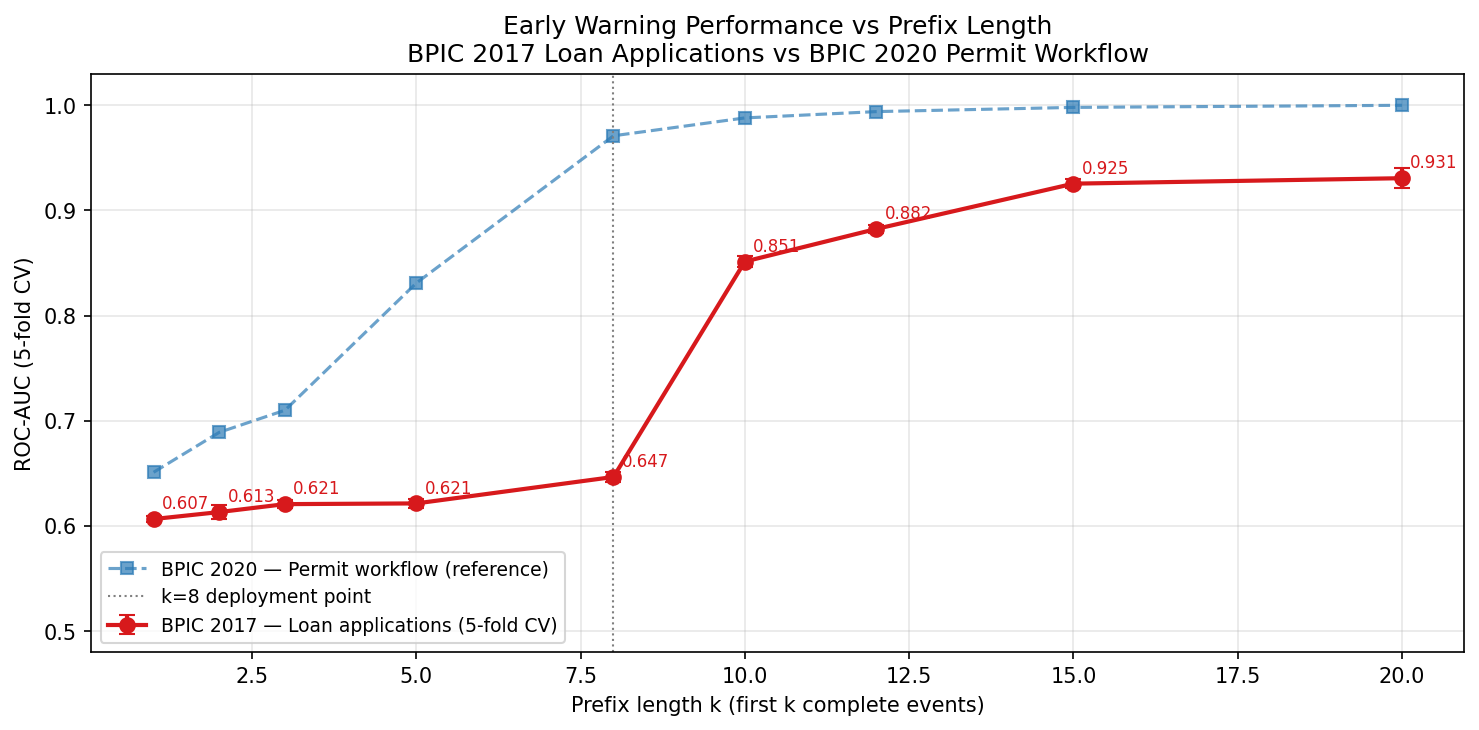
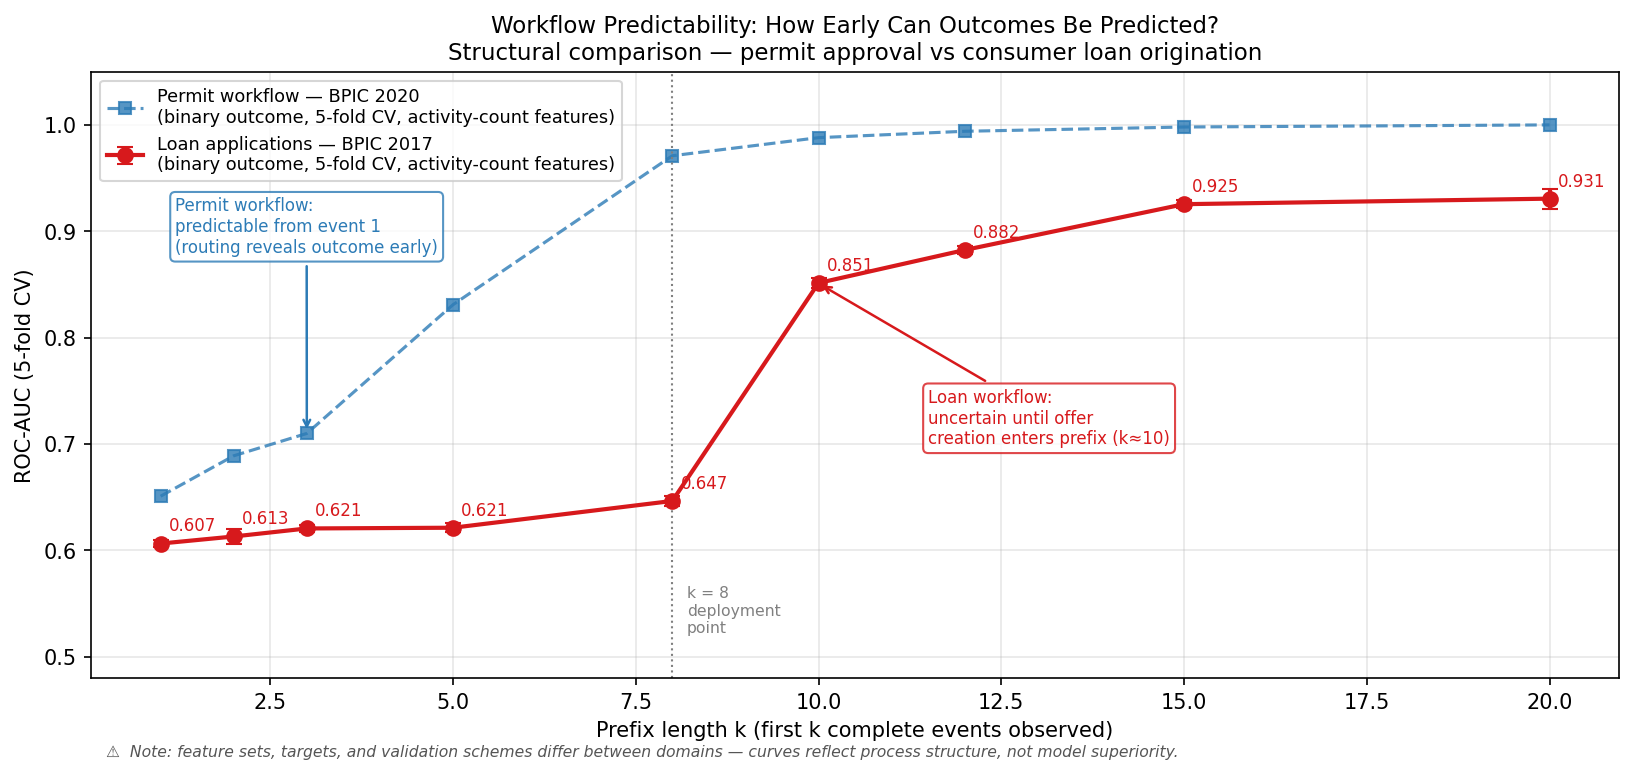
Reframe cross-domain chart as process structure, not performance comparison
Chart title changed to "Workflow Predictability: How Early Can Outcomes
Be Predicted?" — structural comparison, not a head-to-head benchmark.
Annotated callouts explain *why* the curves diverge (routing signals
present from event 1 in permits; loan outcome uncertain until offer
creation at k≈10). Footnote on chart and in all captions states that
feature sets, targets, and validation schemes differ between domains.

Notebook section 8 updated with explicit framing note. README results
table and figure caption updated to use the scientifically defensible
claim: workflow predictability varies substantially across domains.

diff --git a/README.md b/README.md
@@ -26,7 +26,7 @@ End-to-end process mining on a complex multi-stage approval and reimbursement wo
 | Remaining time prediction at k=8 events | MAE **12.4 days** — P10/P50/P90 quantile intervals, 80.8% coverage (Notebook 11) |
 | Survival analysis (all 7,065 cases) | KM median 72.4d · Cox concordance **0.814** · 14% right-censored (Notebook 12) |
 | Violation root cause analysis | 44.9% of cases have conformance violations (fitness < 1.0); DT AUC **0.876**, XGB AUC **0.956** — department, duration, and event count are dominant drivers (Notebook 13) |
-| **Transferability — BPIC 2017 loan applications** | Same pipeline on 31,509 loans · 475K events: early warning AUC **0.647** at k=8; signal concentrates at offer-creation stage (k=10+, AUC 0.851) vs permit workflow where signal is distributed from event 1 (Notebook 14) |
+| **Cross-domain transferability — BPIC 2017 loan applications** | Same pipeline on 31,509 loans · 475K events. Workflow predictability varies by domain: permit process is predictable from event 1; loan outcome remains uncertain until credit decision stage (k≈10, AUC jumps 0.647 → 0.851). Curves reflect process structure, not model superiority (Notebook 14) |
 
 ### Early warning performance vs prefix length
 
@@ -38,7 +38,7 @@ End-to-end process mining on a complex multi-stage approval and reimbursement wo
 
 ![Transfer AUC curve](outputs/figures/transfer_auc_curve.png)
 
-*Same pipeline on two domains: permit workflow (BPIC 2020) vs loan applications (BPIC 2017). Signal concentrates at the offer-creation stage in loan workflows; permit workflows carry predictive information from event 1.*
+*Workflow predictability varies substantially across domains. The permit process becomes deterministic after a small number of events (routing signals present from event 1), whereas loan applications remain uncertain until the credit decision stage (k≈10, when offer-creation events enter the prefix). Note: feature sets, targets, and validation schemes differ — curves reflect process structure, not model superiority.*
 
 ### SHAP feature importance — violation prediction (XGBoost AUC 0.956)
 